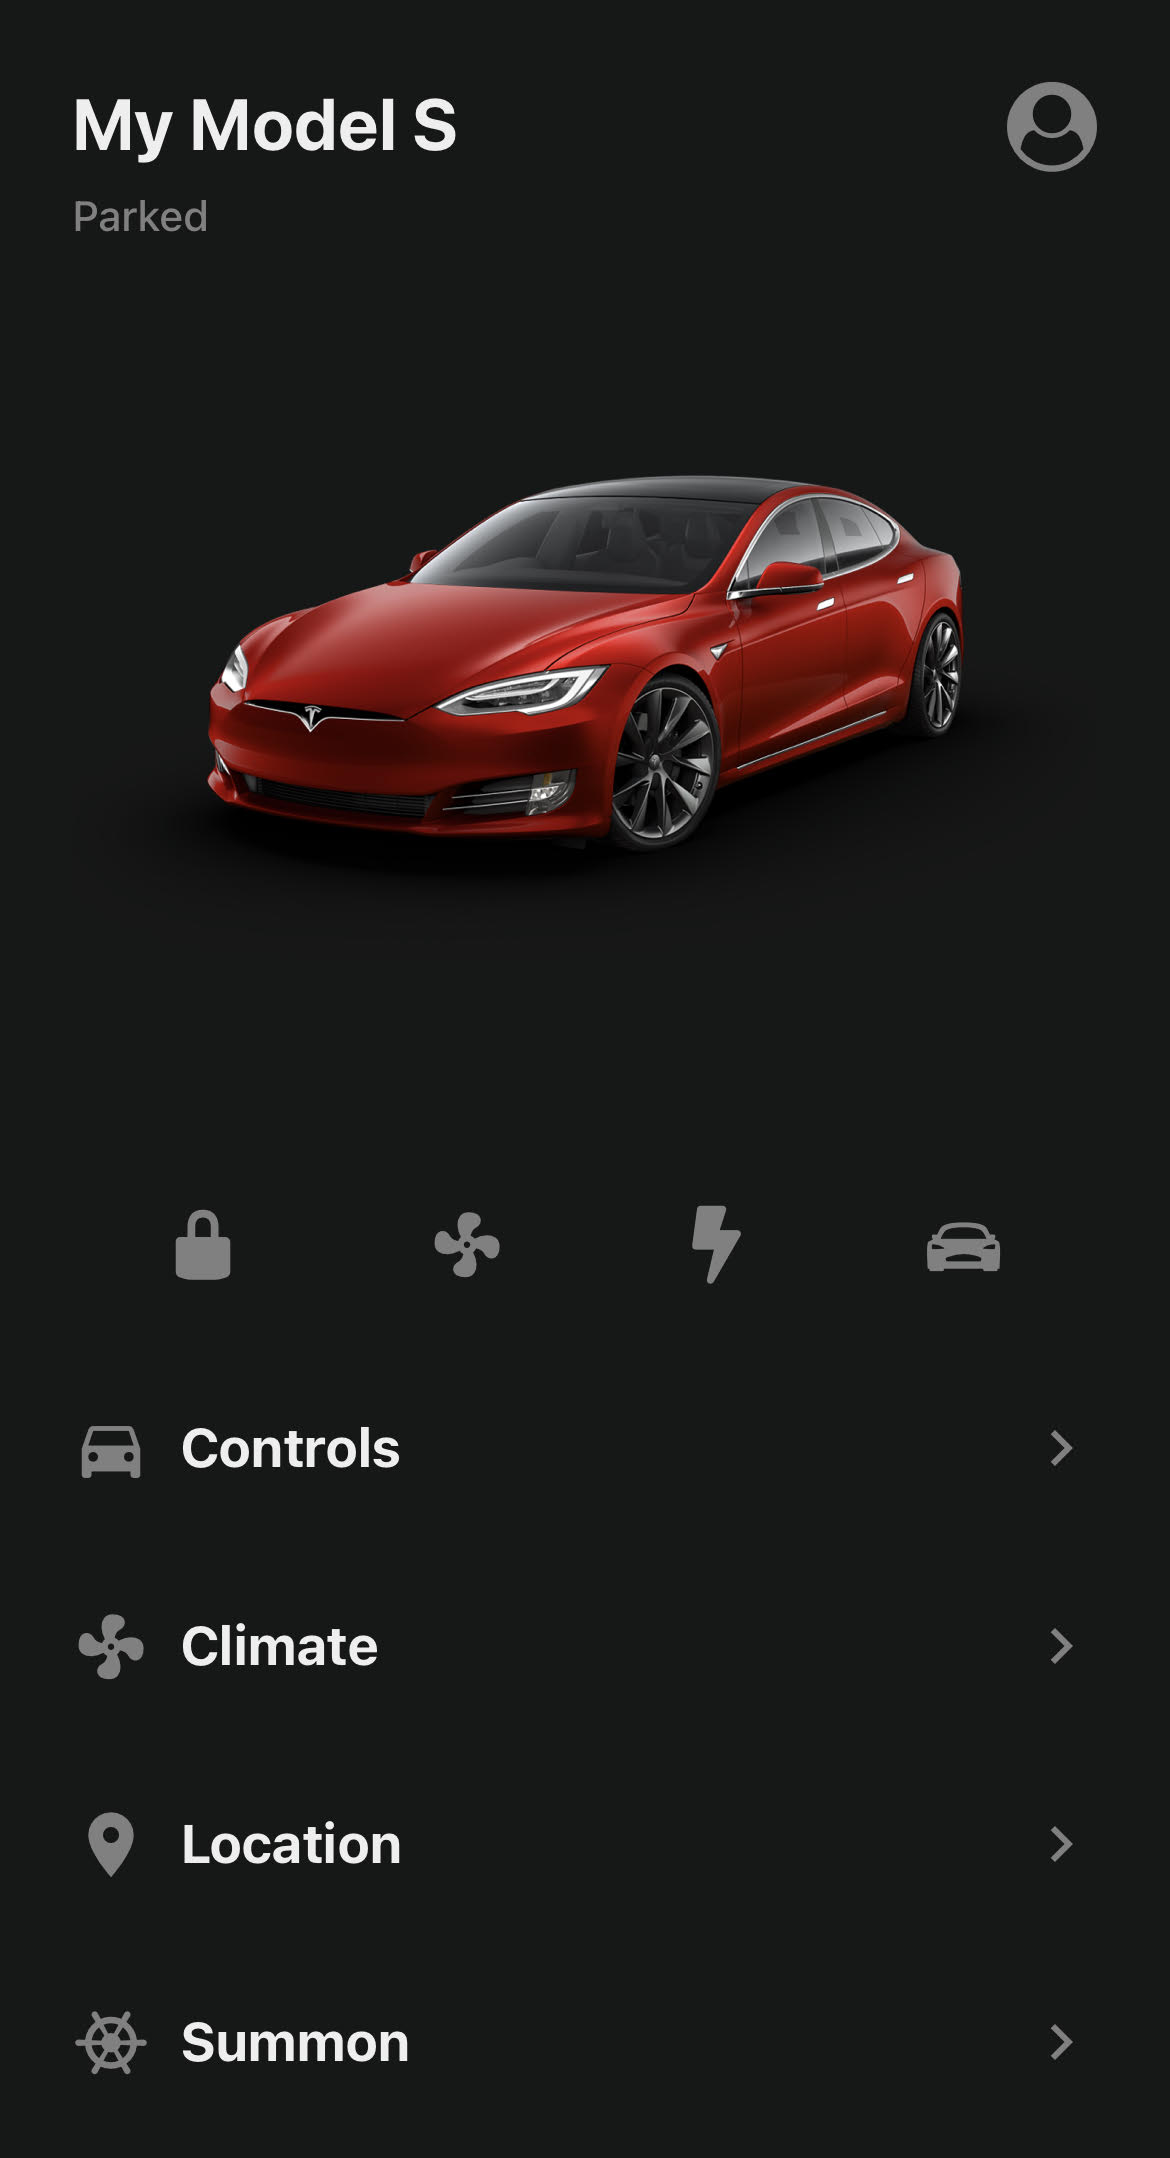
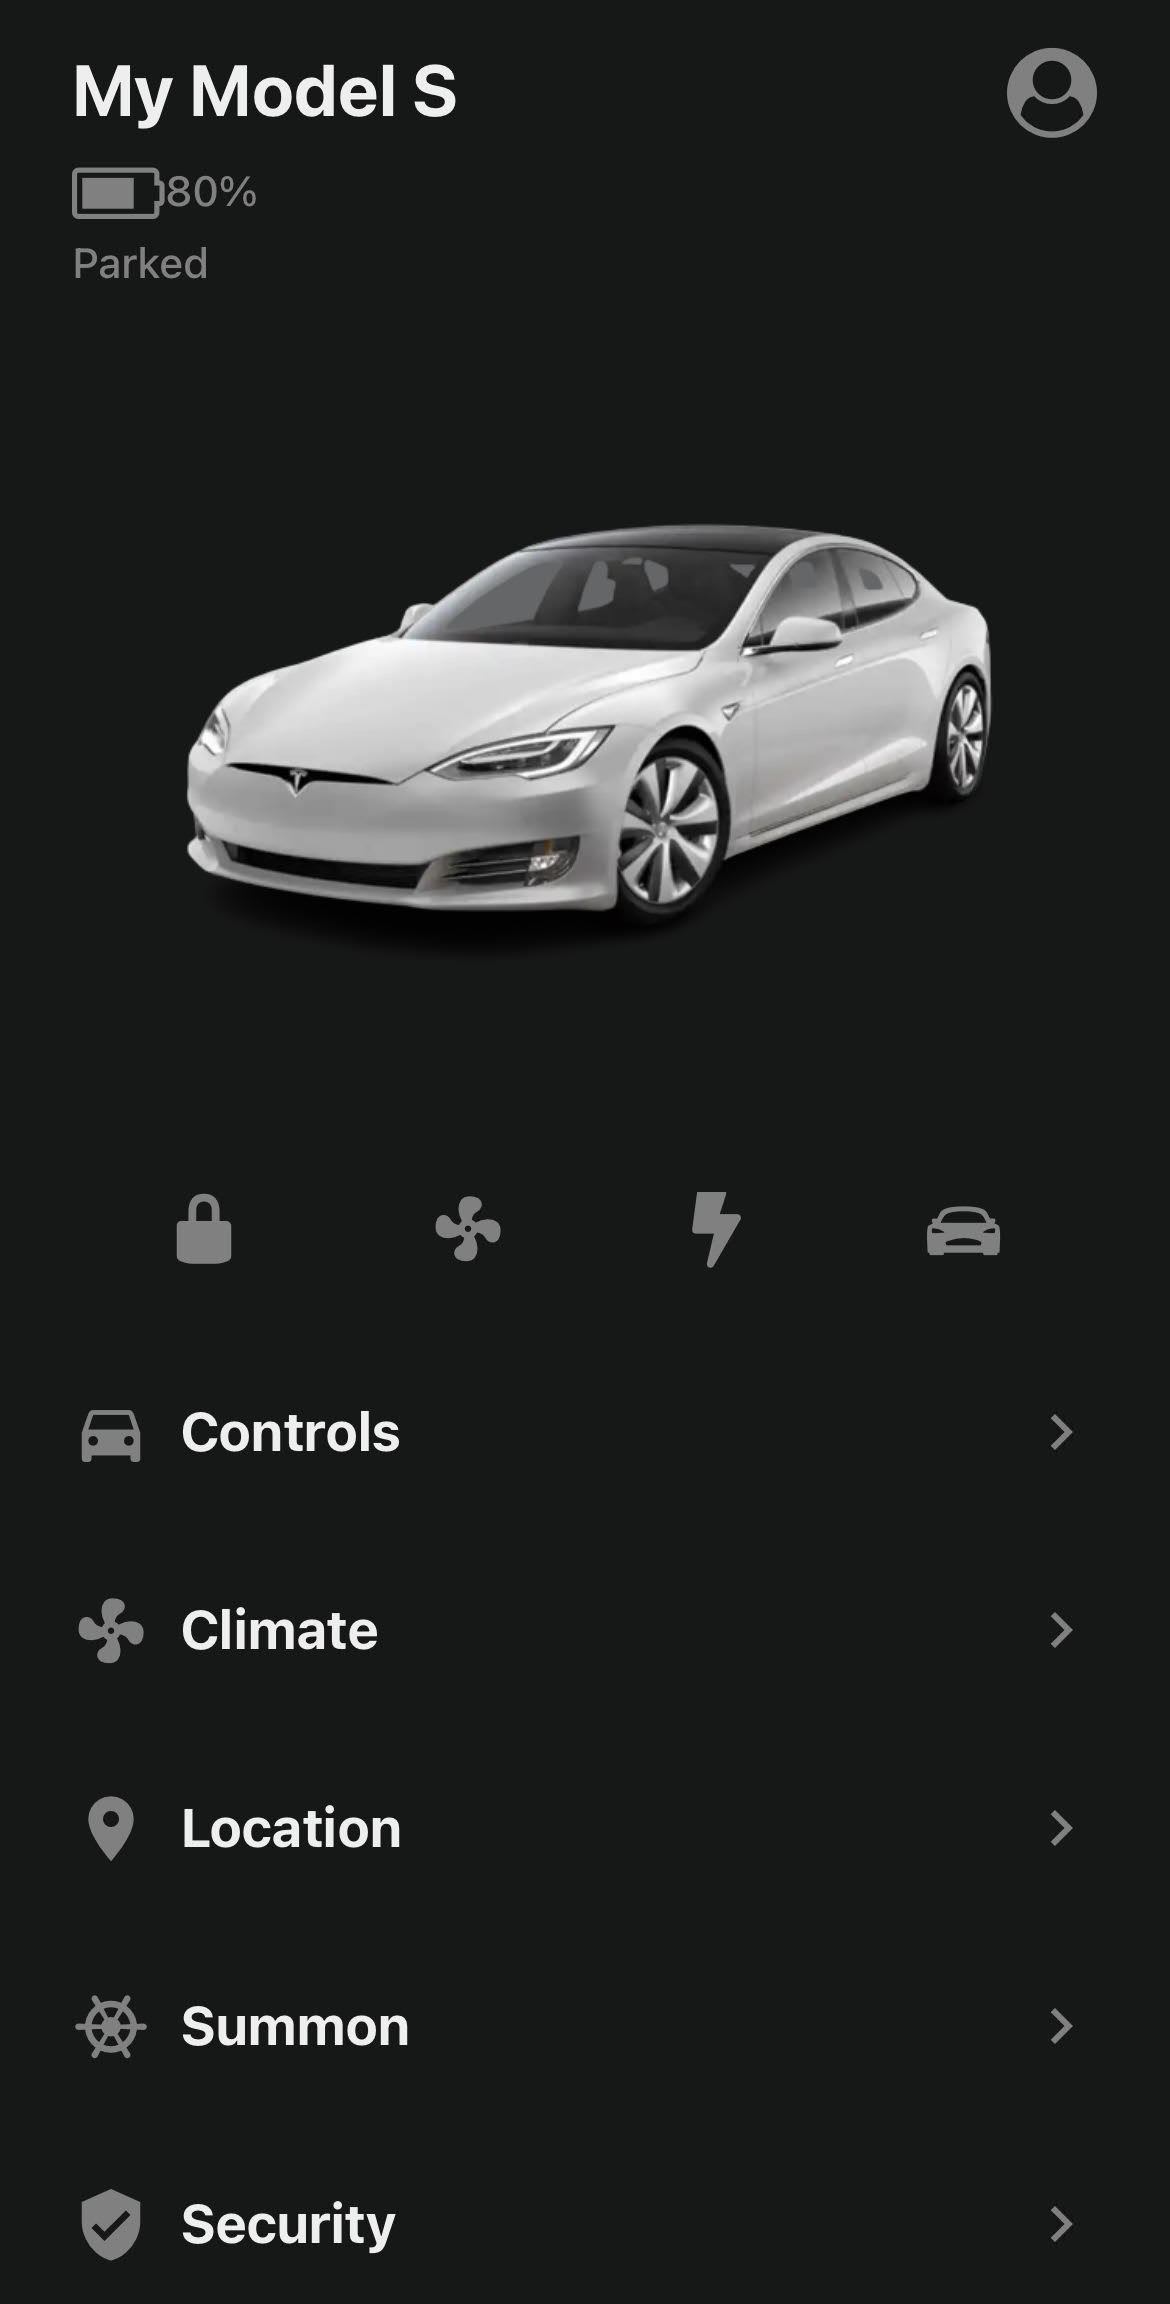
build(controls.js): Create Controls Page and implementing Router

diff --git a/app/controls.js b/app/controls.js
@@ -1,10 +1,14 @@
 import { View, Text, Image, StyleSheet, Pressable } from "react-native";
-import climateImage from "../assets/images/climate.png";
-import { Entypo, MaterialCommunityIcons } from "@expo/vector-icons";
+import carControl from "../assets/images/car-controls.png";
+import {
+  Entypo,
+  MaterialCommunityIcons,
+  FontAwesome5,
+} from "@expo/vector-icons";
 import { useRouter } from "expo-router";
 import { useState } from "react";
 
-export default function ClimateScreen() {
+export default function ControlsScreen() {
   const router = useRouter();
 
   const [temperature, setTemperature] = useState(28);
@@ -12,65 +16,62 @@ export default function ClimateScreen() {
 
   return (
     <View style={styles.container}>
-      <Image source={climateImage} style={styles.image} resizeMode="cover" />
+      <Image source={carControl} style={styles.image} resizeMode="contain" />
 
       <Pressable onPress={() => router.back()} style={styles.back}>
         <Entypo name="chevron-left" size={24} color="white" />
       </Pressable>
 
       <View style={styles.footer}>
-        <Text style={styles.labelTemp}>Exterior 34° - Interior 24°</Text>
-
         <View style={styles.controlTemp}>
           <Pressable
             onPress={() => setOn(!on)}
             style={styles.iconButtonContainer}
           >
             <MaterialCommunityIcons
-              name="power"
-              size={40}
+              name="car-light-high"
+              size={30}
               color={on ? "white" : "gray"}
             />
             <Text style={styles.iconButtonText}>{on ? "on" : "off"}</Text>
           </Pressable>
 
+          <MaterialCommunityIcons
+            name="trumpet"
+            size={30}
+            color={on ? "white" : "gray"}
+          />
+          <MaterialCommunityIcons
+            name="remote"
+            size={30}
+            color={on ? "white" : "gray"}
+          />
+          <FontAwesome5
+            name="house-damage"
+            size={26}
+            color={on ? "white" : "gray"}
+          />
+
           <View style={styles.temperatureContainer}>
-            <Entypo
+            {/* <Entypo
               onPress={() => setTemperature(temperature - 1)}
               name="chevron-left"
               size={34}
               color="gray"
-            />
-            <Text style={styles.temperatureText}>{temperature}°</Text>
-            <Entypo
+              />
+              <Text style={styles.temperatureText}>{temperature}°</Text>
+              <Entypo
               onPress={() => setTemperature(temperature + 1)}
               name="chevron-right"
               size={34}
               color="gray"
-            />
-          </View>
-          <View style={styles.iconButtonContainer}>
-            <MaterialCommunityIcons name="car-door" size={42} color="gray" />
-            <Text style={styles.iconButtonText}>Vent</Text>
+            /> */}
           </View>
         </View>
       </View>
     </View>
   );
 }
-
-/* 
-<View style={styles.controlTemp}>
-          <View style={styles.iconButtonContainer}>
-            <MaterialCommunityIcons
-              onPress={() => setOn(!on)}
-              name="power"
-              size={40}
-              color="white"
-            />
-            <Text style={styles.iconButtonText}>{on ? "on" : "off"}</Text>
-          </View>
-*/
 
 const styles = StyleSheet.create({
   container: {
@@ -79,7 +80,7 @@ const styles = StyleSheet.create({
   },
   image: {
     width: "100%",
-    height: "70%",
+    height: "95%",
   },
   back: {
     position: "absolute",
@@ -91,9 +92,10 @@ const styles = StyleSheet.create({
   },
   footer: {
     alignItems: "center",
-    padding: 12,
     marginBottom: 20,
     marginTop: "auto",
+    // backgroundColor: "green",
+    flexDirection: "row",
   },
   labelTemp: {
     color: "gray",
@@ -104,7 +106,8 @@ const styles = StyleSheet.create({
   controlTemp: {
     flexDirection: "row",
     width: "100%",
-    justifyContent: "space-around",
+    marginLeft: 28,
+    justifyContent: "space-between",
   },
   iconButtonContainer: {
     alignItems: "center",

diff --git a/app/index.js b/app/index.js
@@ -1,4 +1,11 @@
-import { View, Text, StyleSheet, Image, FlatList } from "react-native";
+import {
+  View,
+  Text,
+  StyleSheet,
+  Image,
+  FlatList,
+  Pressable,
+} from "react-native";
 import {
   FontAwesome,
   Entypo,
@@ -9,24 +16,67 @@ import {
 import car from "../assets/images/car.png";
 import menuOptions from "../assets/menuOptions";
 import MenuOption from "../components/MenuOption";
+import { useState } from "react";
 
 const Controls = () => {
+  const [charging, setCharging] = useState(false);
+  const [locking, setLocking] = useState(false);
+  const [fresh, setFresh] = useState(false);
+  const [drive, setDrive] = useState(false);
+
+  const [toggle, setToggle] = useState(false);
+
+  const toggleIcon = () => {
+    setToggle(!toggle);
+  };
+  // <Ionicons name="car-sport" size={24} color="black" />
   return (
     <View style={styles.controls}>
-      <Entypo name="lock" size={26} color="gray" />
-      <MaterialCommunityIcons name="fan" size={26} color="gray" />
-      <FontAwesome5 name="bolt" size={26} color="gray" />
-      <Ionicons name="car-sport-sharp" size={26} color="gray" />
+      <Pressable onPress={() => setLocking(!locking && toggleIcon)}>
+        <Entypo
+          name={toggle ? "lock-open" : "lock"}
+          size={26}
+          color={locking ? "white" : "gray" && toggle ? "white" : "gray"}
+        />
+      </Pressable>
+
+      <Pressable onPress={() => setFresh(!fresh)}>
+        <MaterialCommunityIcons
+          name="fan"
+          size={26}
+          color={fresh ? "white" : "gray"}
+        />
+      </Pressable>
+
+      <Pressable onPress={() => setCharging(!charging)}>
+        <FontAwesome5
+          name="bolt"
+          size={26}
+          color={charging ? "#01de7c" : "gray"}
+        />
+      </Pressable>
+
+      <Pressable onPress={() => setDrive(!drive)}>
+        <Ionicons
+          name="car-sport-sharp"
+          size={26}
+          color={drive ? "white" : "gray"}
+        />
+      </Pressable>
     </View>
   );
 };
-
+//
 export default function Page() {
   return (
     <View style={styles.container}>
       <View style={styles.header}>
         <View>
           <Text style={styles.title}>My Model S</Text>
+          <View style={styles.batteryContainer}>
+            <FontAwesome name="battery-3" size={24} color="gray" />
+            <Text style={styles.percent}>80%</Text>
+          </View>
           <Text style={styles.subtitle}>Parked</Text>
         </View>
 
@@ -60,11 +110,21 @@ const styles = StyleSheet.create({
     flexDirection: "row",
     justifyContent: "space-between",
   },
+  batteryContainer: {
+    flexDirection: "row",
+    alignItems: "center",
+    marginBottom: 3,
+  },
   title: {
     fontSize: 24,
     color: "#eee",
     fontWeight: "bold",
     marginBottom: 8,
+  },
+  percent: {
+    color: "gray",
+    fontWeight: "500",
+    marginLeft: 5,
   },
   subtitle: {
     color: "gray",

diff --git a/app/_layout.js b/app/_layout.js
@@ -1,0 +1,16 @@
+import { Stack } from "expo-router";
+import { StatusBar } from "expo-status-bar";
+import { View, Text } from "react-native";
+
+export default function _layout({ children }) {
+  return (
+    <>
+      <Stack
+        screenOptions={{
+          headerShown: false,
+        }}
+      ></Stack>
+      <StatusBar style="light" />
+    </>
+  );
+}
